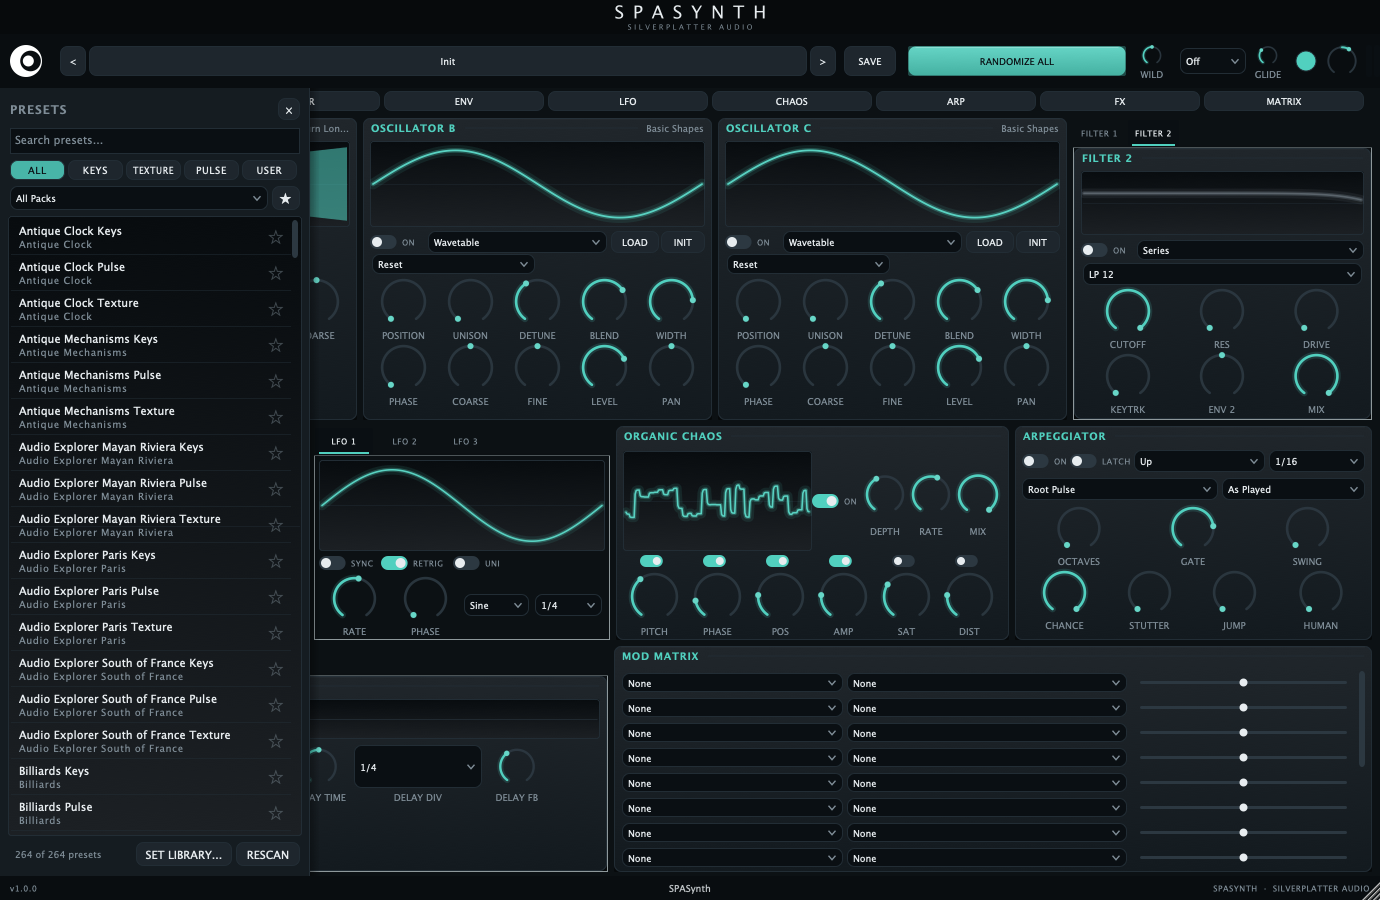
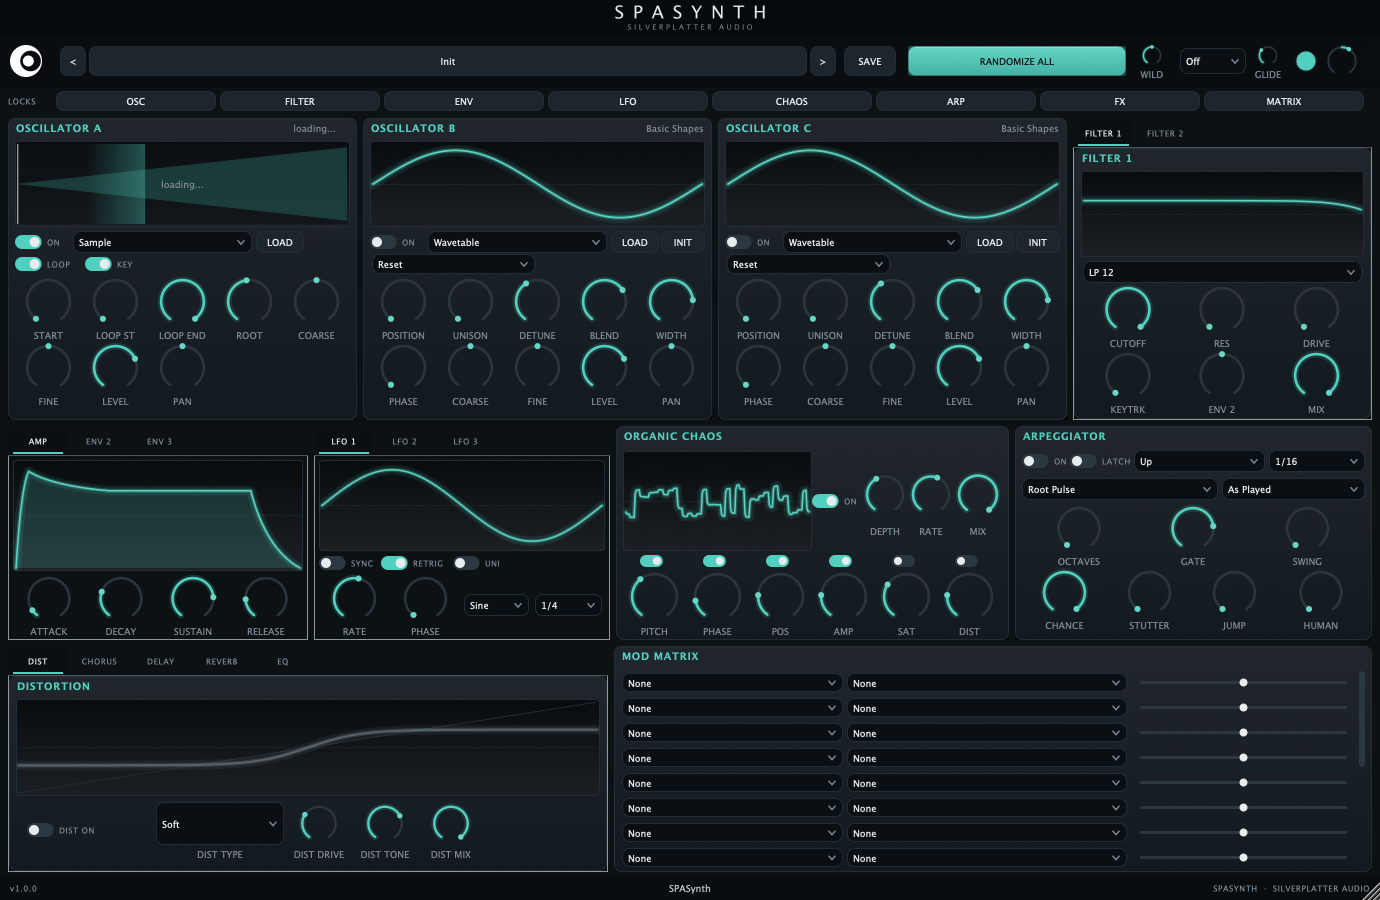
Animate the hero preset drawer sliding open and closed
Base hero image swapped to the "loading" state (oscillator view);
a precisely-cropped strip of the presets panel from the open
screenshot slides in from the left over it on a 9s loop (0.5s slide,
5s held open, matching hold when closed). Panel slides from the left
since that's its actual dock side in the real UI. Disabled under
prefers-reduced-motion.

diff --git a/css/styles.css b/css/styles.css
@@ -249,6 +249,24 @@ p{ margin: 0; color: var(--text-dim); }
   margin: 0 auto;
 }
 .hero-shot img{ width: 100%; }
+.hero-shot .hero-shot-panel{
+  position: absolute;
+  top: 0;
+  left: 0;
+  width: 22.6087%;
+  height: auto;
+  filter: drop-shadow(8px 0 24px rgba(0,0,0,0.55));
+  transform: translateX(-100%);
+  animation: hero-panel-slide 9s ease-in-out infinite;
+}
+@keyframes hero-panel-slide{
+  0%, 16.67%     { transform: translateX(-100%); }
+  22.22%, 77.78% { transform: translateX(0%); }
+  83.33%, 100%   { transform: translateX(-100%); }
+}
+@media (prefers-reduced-motion: reduce){
+  .hero-shot .hero-shot-panel{ animation: none; transform: translateX(-100%); }
+}
 
 /* ---------- sections ---------- */
 .section{ padding: 120px 0; }

diff --git a/index.html b/index.html
@@ -59,7 +59,8 @@
         <a class="btn btn-ghost" href="#features">Explore Features</a>
       </div>
       <div class="hero-shot" data-reveal>
-        <img src="assets/images/spasynth-hero.png" alt="SPASynth plugin interface in its dark theme with teal accents, showing the searchable preset browser alongside oscillators, filters, organic chaos engine, arpeggiator, and mod matrix" loading="eager">
+        <img src="assets/images/spasynth-hero.png" alt="SPASynth plugin interface in its dark theme with teal accents, showing oscillators, filters, organic chaos engine, arpeggiator, and mod matrix" loading="eager">
+        <img class="hero-shot-panel" src="assets/images/spasynth-hero-panel.png" alt="" aria-hidden="true">
       </div>
     </div>
   </section>